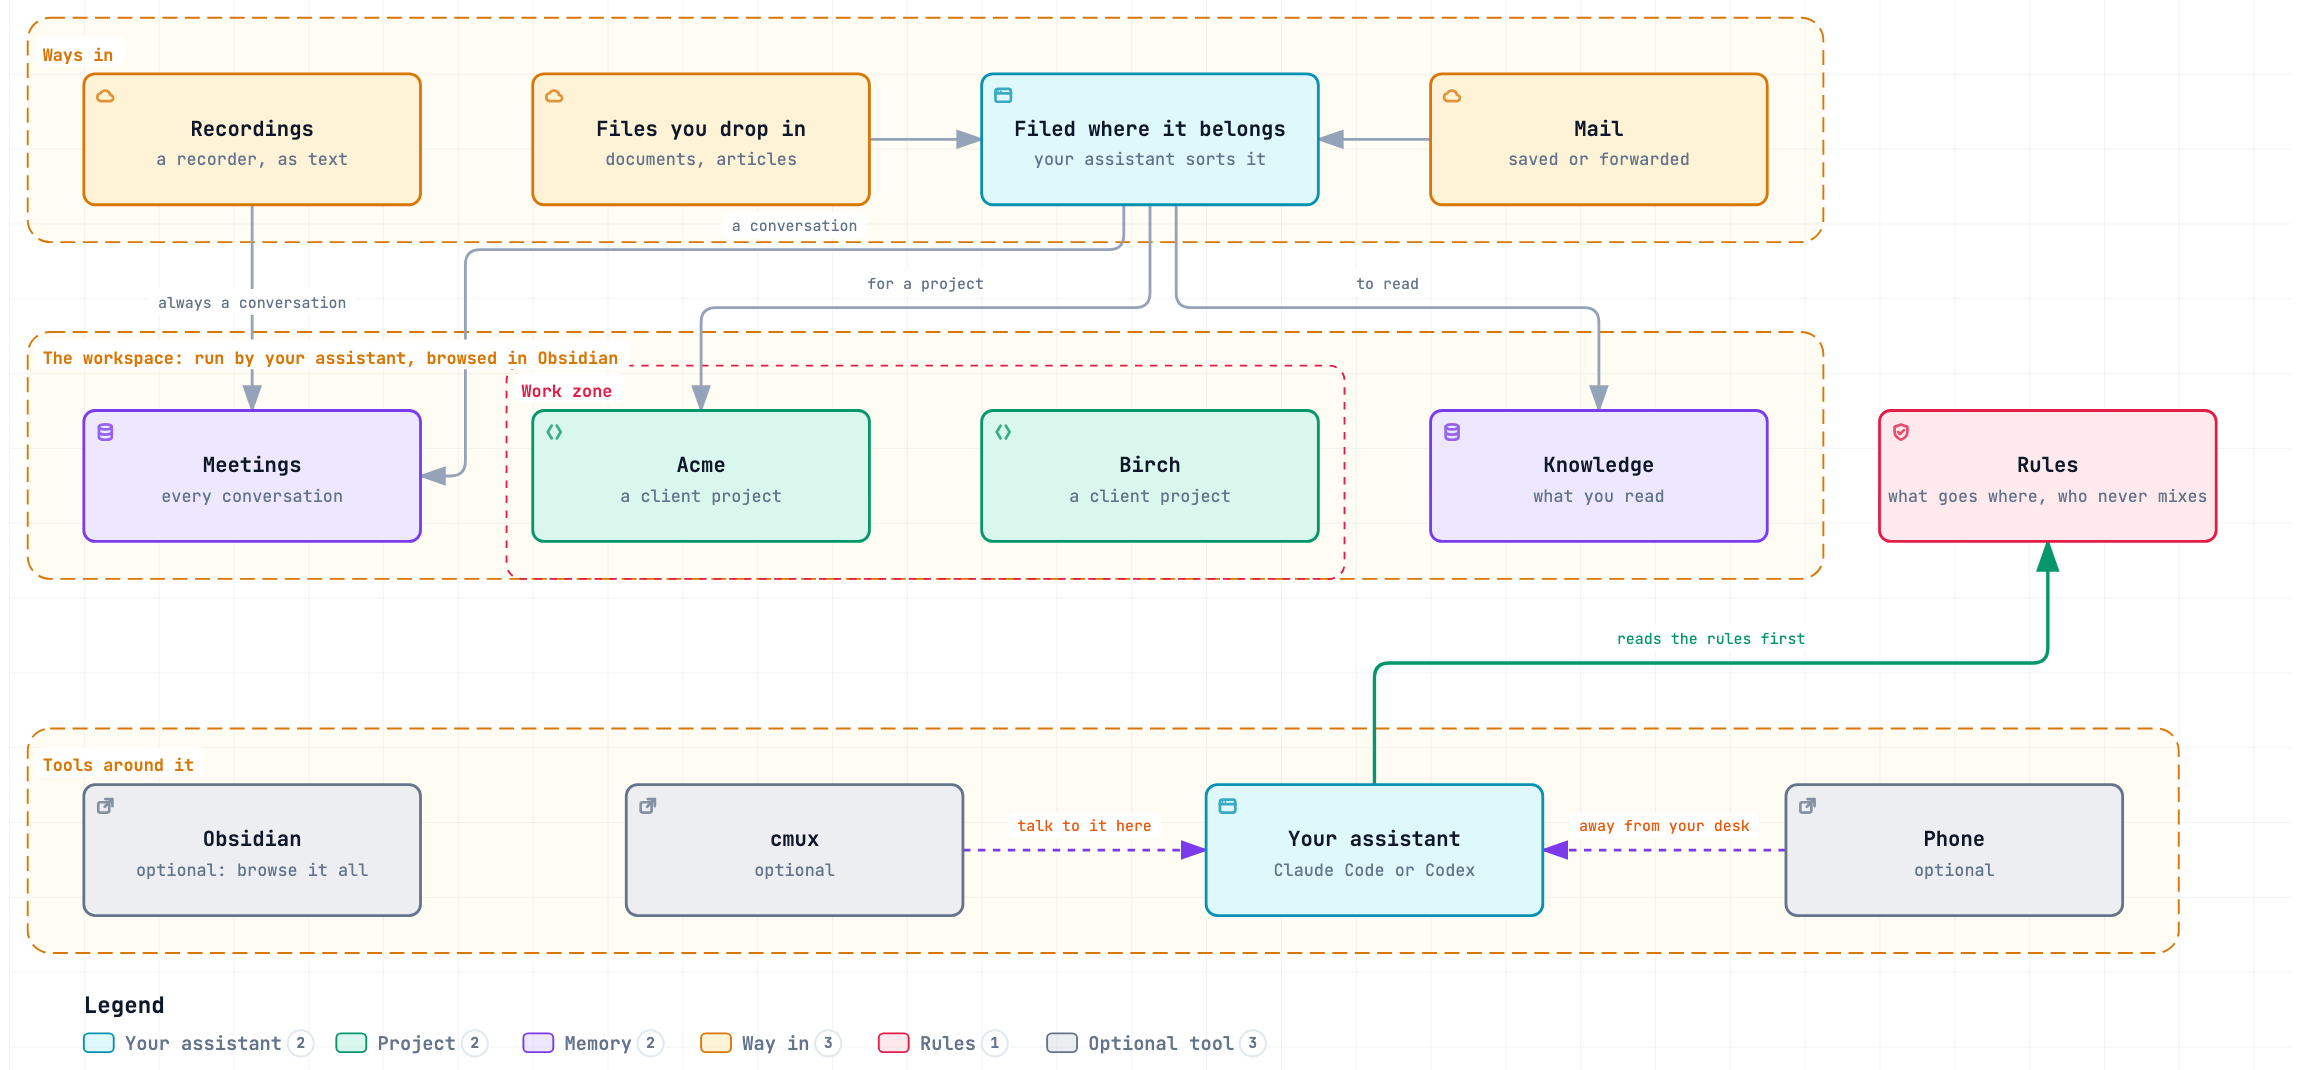
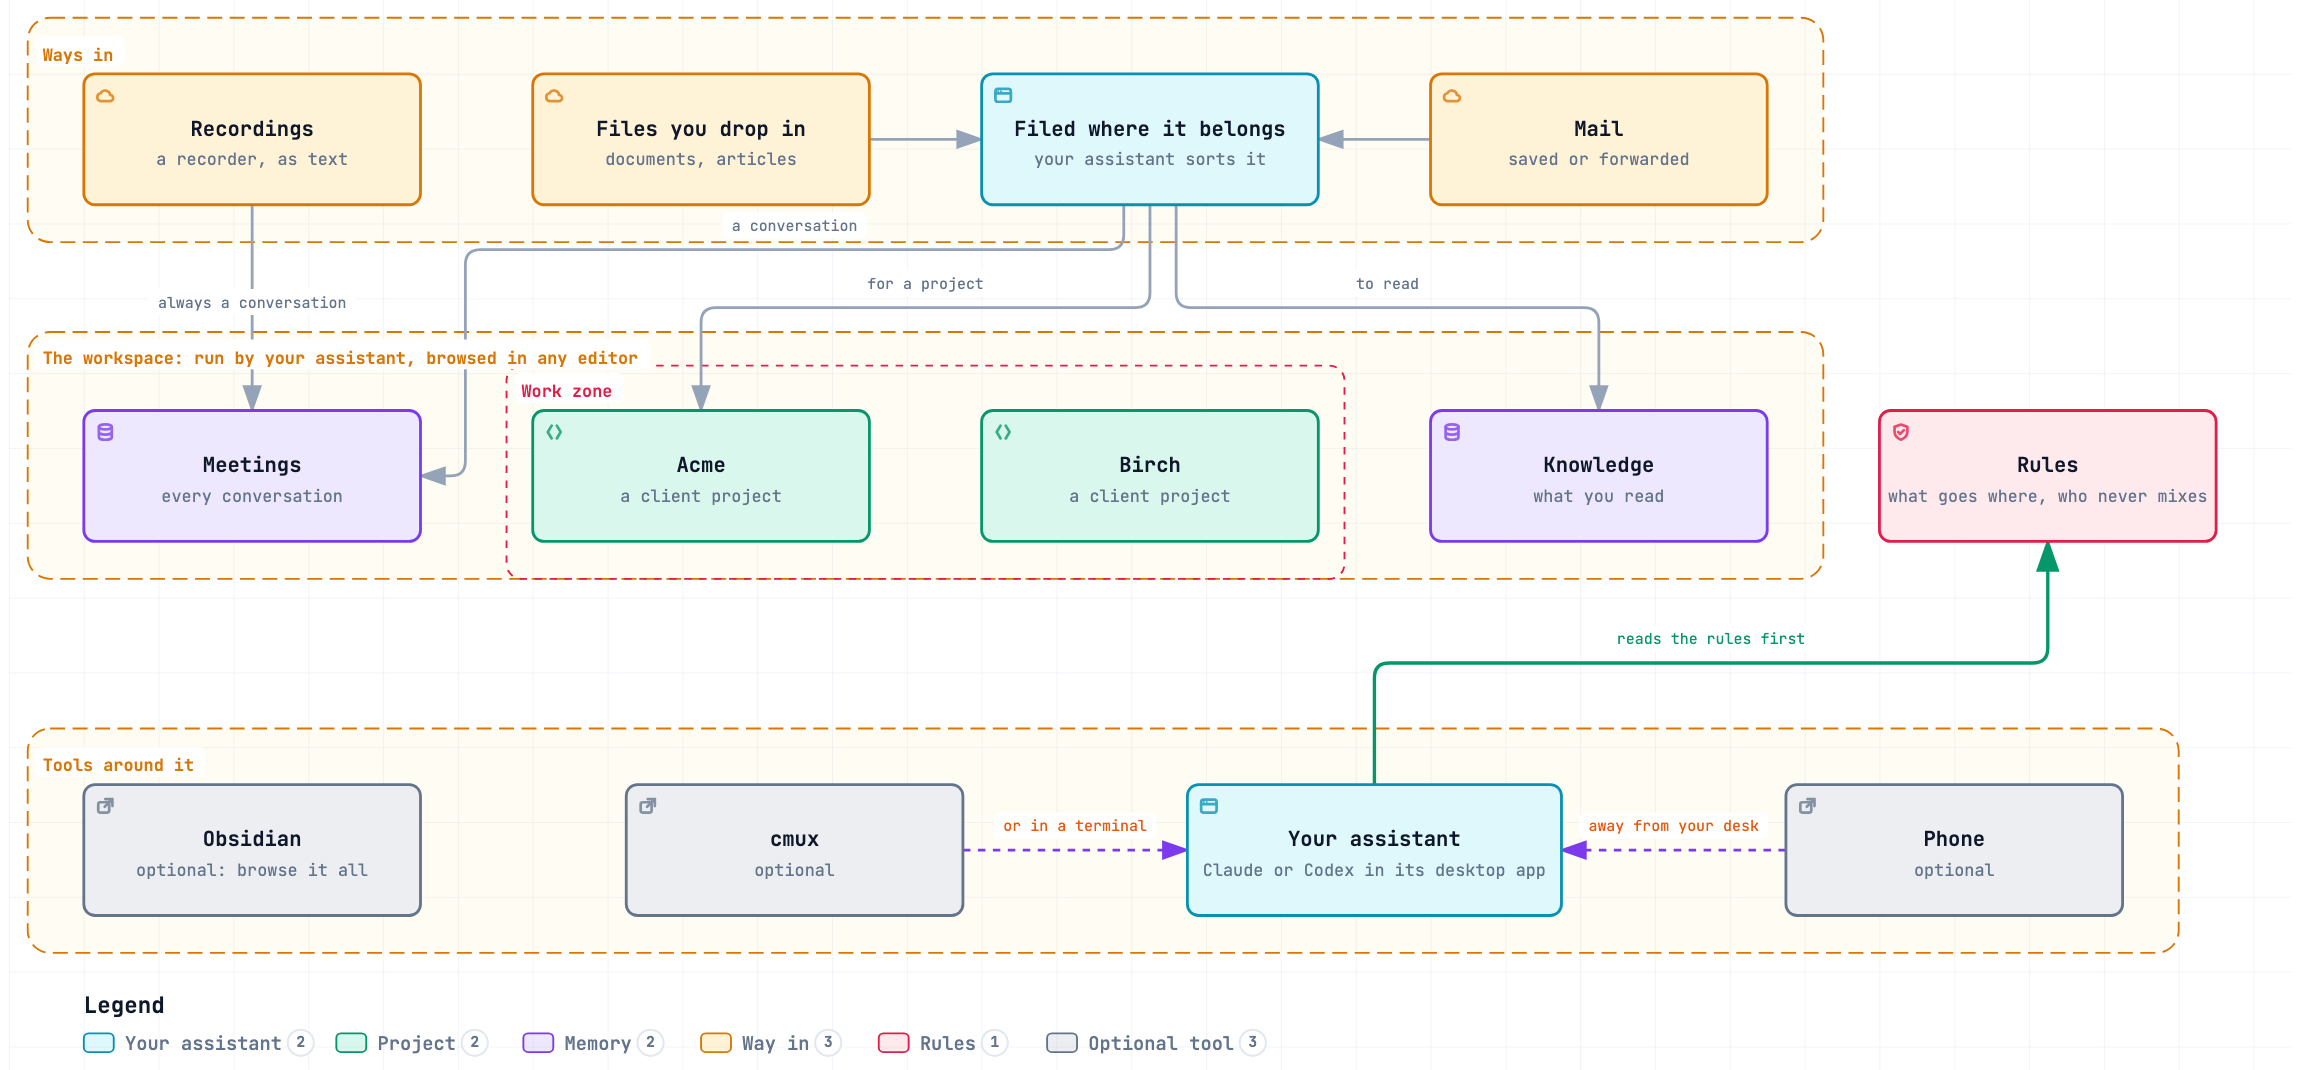
Diagram: declared walls with limited checks, and the desktop route
The walled-use card promised that one client's words never reach another
client's work, a guarantee Garrick does not make: walls are rules for the
assistant, backed by limited checks before a commit. The card now says so,
in those terms.

The diagram also predated the desktop route, which is now the main one.
The assistant box reads Claude or Codex in its desktop app, cmux is the
optional terminal route, and the workspace is browsed in any editor rather
than in Obsidian. A separate node for the app would have crowded the bottom
row, so the assistant box widens around the same centre instead.

Rendered with the same archify version as before, which still reproduces the
old source byte for byte, and exported at the same size, theme and framing.

Changed region(s): [[0.463, 0.7402, 0.7409, 0.8636], [0.247, 0.3084, 0.2778, 0.3393]]

diff --git a/docs/architecture/overview.html b/docs/architecture/overview.html
@@ -5158,7 +5158,7 @@ OTHER DEALINGS IN THE FONT SOFTWARE.
         <!-- Boundaries (behind everything) -->
         <rect data-graph-role="structural-frame" data-composition-frame-kind="region" data-composition-frame-id="0" data-composition-frame-label="Ways in" x="10" y="10" width="960" height="120" rx="12" class="c-region" stroke-width="1"/>
 
-        <rect data-graph-role="structural-frame" data-composition-frame-kind="region" data-composition-frame-id="1" data-composition-frame-label="The workspace: run by your assistant, browsed in Obsidian" x="10" y="178" width="960" height="132" rx="12" class="c-region" stroke-width="1"/>
+        <rect data-graph-role="structural-frame" data-composition-frame-kind="region" data-composition-frame-id="1" data-composition-frame-label="The workspace: run by your assistant, browsed in any editor" x="10" y="178" width="960" height="132" rx="12" class="c-region" stroke-width="1"/>
 
         <rect data-graph-role="structural-frame" data-composition-frame-kind="security-group" data-composition-frame-id="2" data-composition-frame-label="Work zone" x="266" y="196" width="448" height="114" rx="8" class="c-security-group" stroke-width="1"/>
 
@@ -5172,8 +5172,8 @@ OTHER DEALINGS IN THE FONT SOFTWARE.
         <path data-edge-from="sort" data-edge-to="acme" data-edge-label="for a project" data-edge-key="4" data-edge-id="to-work" data-composition-points="610,110;610,165;370,165;370,220" d="M 610 110 L 610 157 Q 610 165 602 165 L 378 165 Q 370 165 370 173 L 370 220" class="a-default" stroke-width="1.5" marker-end="url(#arrowhead)"/>
         <path data-edge-from="sort" data-edge-to="knowledge" data-edge-label="to read" data-edge-key="5" data-edge-id="to-knowledge" data-composition-points="624,110;624,165;850,165;850,220" d="M 624 110 L 624 157 Q 624 165 632 165 L 842 165 Q 850 165 850 173 L 850 220" class="a-default" stroke-width="1.5" marker-end="url(#arrowhead)"/>
         <path data-edge-from="assistant" data-edge-to="rules" data-edge-label="reads the rules first" data-edge-key="6" data-edge-id="reads-rules" data-composition-points="730,420;730,355;1090,355;1090,290" d="M 730 420 L 730 363 Q 730 355 738 355 L 1082 355 Q 1090 355 1090 347 L 1090 290" class="a-emphasis" stroke-width="1.8" marker-end="url(#arrowhead-emphasis)"/>
-        <path data-edge-from="cmux" data-edge-to="assistant" data-edge-label="talk to it here" data-edge-key="7" data-edge-id="talk-here" data-composition-points="510,455;640,455" d="M 510 455 L 640 455" class="a-dashed" stroke-width="1.5" marker-end="url(#arrowhead-dashed)"/>
-        <path data-edge-from="phone" data-edge-to="assistant" data-edge-label="away from your desk" data-edge-key="8" data-edge-id="talk-away" data-composition-points="950,455;820,455" d="M 950 455 L 820 455" class="a-dashed" stroke-width="1.5" marker-end="url(#arrowhead-dashed)"/>
+        <path data-edge-from="cmux" data-edge-to="assistant" data-edge-label="or in a terminal" data-edge-key="7" data-edge-id="talk-here" data-composition-points="510,455;630,455" d="M 510 455 L 630 455" class="a-dashed" stroke-width="1.5" marker-end="url(#arrowhead-dashed)"/>
+        <path data-edge-from="phone" data-edge-to="assistant" data-edge-label="away from your desk" data-edge-key="8" data-edge-id="talk-away" data-composition-points="950,455;830,455" d="M 950 455 L 830 455" class="a-dashed" stroke-width="1.5" marker-end="url(#arrowhead-dashed)"/>
 
         <!-- Components -->
         <g id="node-recordings" data-node-id="recordings" data-node-label="Recordings" tabindex="0" role="button" aria-label="Focus Recordings, a recorder, as text, Ways in" aria-pressed="false" data-node-kind="cloud" data-node-sublabel="a recorder, as text" data-node-context="Ways in">
@@ -5223,8 +5223,8 @@ OTHER DEALINGS IN THE FONT SOFTWARE.
         <text data-detail="context" x="610" y="89" class="t-muted" font-size="9" text-anchor="middle">your assistant sorts it</text>
         </g>
 
-        <g id="node-meetings" data-node-id="meetings" data-node-label="Meetings" tabindex="0" role="button" aria-label="Focus Meetings, every conversation, The workspace: run by your assistant, browsed in Obsidian" aria-pressed="false" data-node-kind="database" data-node-sublabel="every conversation" data-node-context="The workspace: run by your assistant, browsed in Obsidian">
-          <title>Meetings · every conversation · The workspace: run by your assistant, browsed in Obsidian</title>
+        <g id="node-meetings" data-node-id="meetings" data-node-label="Meetings" tabindex="0" role="button" aria-label="Focus Meetings, every conversation, The workspace: run by your assistant, browsed in any editor" aria-pressed="false" data-node-kind="database" data-node-sublabel="every conversation" data-node-context="The workspace: run by your assistant, browsed in any editor">
+          <title>Meetings · every conversation · The workspace: run by your assistant, browsed in any editor</title>
           <rect x="40" y="220" width="180" height="70" rx="6" class="c-mask"/>
           <rect x="40" y="220" width="180" height="70" rx="6" class="c-database" stroke-width="1.5"/>
           <g aria-hidden="true" data-semantic-sigil="database" class="semantic-sigil s-database" transform="translate(46 226) scale(0.6875)">
@@ -5235,8 +5235,8 @@ OTHER DEALINGS IN THE FONT SOFTWARE.
         <text data-detail="context" x="130" y="269" class="t-muted" font-size="9" text-anchor="middle">every conversation</text>
         </g>
 
-        <g id="node-acme" data-node-id="acme" data-node-label="Acme" tabindex="0" role="button" aria-label="Focus Acme, a client project, The workspace: run by your assistant, browsed in Obsidian › Work zone" aria-pressed="false" data-node-kind="backend" data-node-sublabel="a client project" data-node-context="The workspace: run by your assistant, browsed in Obsidian › Work zone">
-          <title>Acme · a client project · The workspace: run by your assistant, browsed in Obsidian › Work zone</title>
+        <g id="node-acme" data-node-id="acme" data-node-label="Acme" tabindex="0" role="button" aria-label="Focus Acme, a client project, The workspace: run by your assistant, browsed in any editor › Work zone" aria-pressed="false" data-node-kind="backend" data-node-sublabel="a client project" data-node-context="The workspace: run by your assistant, browsed in any editor › Work zone">
+          <title>Acme · a client project · The workspace: run by your assistant, browsed in any editor › Work zone</title>
           <rect x="280" y="220" width="180" height="70" rx="6" class="c-mask"/>
           <rect x="280" y="220" width="180" height="70" rx="6" class="c-backend" stroke-width="1.5"/>
           <g aria-hidden="true" data-semantic-sigil="backend" class="semantic-sigil s-backend" transform="translate(286 226) scale(0.6875)">
@@ -5246,8 +5246,8 @@ OTHER DEALINGS IN THE FONT SOFTWARE.
         <text data-detail="context" x="370" y="269" class="t-muted" font-size="9" text-anchor="middle">a client project</text>
         </g>
 
-        <g id="node-birch" data-node-id="birch" data-node-label="Birch" tabindex="0" role="button" aria-label="Focus Birch, a client project, The workspace: run by your assistant, browsed in Obsidian › Work zone" aria-pressed="false" data-node-kind="backend" data-node-sublabel="a client project" data-node-context="The workspace: run by your assistant, browsed in Obsidian › Work zone">
-          <title>Birch · a client project · The workspace: run by your assistant, browsed in Obsidian › Work zone</title>
+        <g id="node-birch" data-node-id="birch" data-node-label="Birch" tabindex="0" role="button" aria-label="Focus Birch, a client project, The workspace: run by your assistant, browsed in any editor › Work zone" aria-pressed="false" data-node-kind="backend" data-node-sublabel="a client project" data-node-context="The workspace: run by your assistant, browsed in any editor › Work zone">
+          <title>Birch · a client project · The workspace: run by your assistant, browsed in any editor › Work zone</title>
           <rect x="520" y="220" width="180" height="70" rx="6" class="c-mask"/>
           <rect x="520" y="220" width="180" height="70" rx="6" class="c-backend" stroke-width="1.5"/>
           <g aria-hidden="true" data-semantic-sigil="backend" class="semantic-sigil s-backend" transform="translate(526 226) scale(0.6875)">
@@ -5257,8 +5257,8 @@ OTHER DEALINGS IN THE FONT SOFTWARE.
         <text data-detail="context" x="610" y="269" class="t-muted" font-size="9" text-anchor="middle">a client project</text>
         </g>
 
-        <g id="node-knowledge" data-node-id="knowledge" data-node-label="Knowledge" tabindex="0" role="button" aria-label="Focus Knowledge, what you read, The workspace: run by your assistant, browsed in Obsidian" aria-pressed="false" data-node-kind="database" data-node-sublabel="what you read" data-node-context="The workspace: run by your assistant, browsed in Obsidian">
-          <title>Knowledge · what you read · The workspace: run by your assistant, browsed in Obsidian</title>
+        <g id="node-knowledge" data-node-id="knowledge" data-node-label="Knowledge" tabindex="0" role="button" aria-label="Focus Knowledge, what you read, The workspace: run by your assistant, browsed in any editor" aria-pressed="false" data-node-kind="database" data-node-sublabel="what you read" data-node-context="The workspace: run by your assistant, browsed in any editor">
+          <title>Knowledge · what you read · The workspace: run by your assistant, browsed in any editor</title>
           <rect x="760" y="220" width="180" height="70" rx="6" class="c-mask"/>
           <rect x="760" y="220" width="180" height="70" rx="6" class="c-database" stroke-width="1.5"/>
           <g aria-hidden="true" data-semantic-sigil="database" class="semantic-sigil s-database" transform="translate(766 226) scale(0.6875)">
@@ -5305,18 +5305,18 @@ OTHER DEALINGS IN THE FONT SOFTWARE.
         <text data-detail="context" x="420" y="469" class="t-muted" font-size="9" text-anchor="middle">optional</text>
         </g>
 
-        <g id="node-assistant" data-node-id="assistant" data-node-label="Your assistant" tabindex="0" role="button" aria-label="Focus Your assistant, Claude Code or Codex, Tools around it" aria-pressed="false" data-node-kind="frontend" data-node-sublabel="Claude Code or Codex" data-node-context="Tools around it">
-          <title>Your assistant · Claude Code or Codex · Tools around it</title>
-          <rect x="640" y="420" width="180" height="70" rx="6" class="c-mask"/>
-          <rect x="640" y="420" width="180" height="70" rx="6" class="c-frontend" stroke-width="1.5"/>
-          <g aria-hidden="true" data-semantic-sigil="frontend" class="semantic-sigil s-frontend" transform="translate(646 426) scale(0.6875)">
+        <g id="node-assistant" data-node-id="assistant" data-node-label="Your assistant" tabindex="0" role="button" aria-label="Focus Your assistant, Claude or Codex in its desktop app, Tools around it" aria-pressed="false" data-node-kind="frontend" data-node-sublabel="Claude or Codex in its desktop app" data-node-context="Tools around it">
+          <title>Your assistant · Claude or Codex in its desktop app · Tools around it</title>
+          <rect x="630" y="420" width="200" height="70" rx="6" class="c-mask"/>
+          <rect x="630" y="420" width="200" height="70" rx="6" class="c-frontend" stroke-width="1.5"/>
+          <g aria-hidden="true" data-semantic-sigil="frontend" class="semantic-sigil s-frontend" transform="translate(636 426) scale(0.6875)">
             <rect x="2" y="3" width="12" height="10" rx="2"/>
             <path d="M2 6.5h12"/>
             <circle cx="4.1" cy="4.8" r=".7" class="sigil-fill"/>
             <circle cx="6.3" cy="4.8" r=".7" class="sigil-fill"/>
           </g>
           <text data-node-label="" data-detail-anchor="" x="730" y="453" class="t-primary" font-size="11" font-weight="600" text-anchor="middle">Your assistant</text>
-        <text data-detail="context" x="730" y="469" class="t-muted" font-size="9" text-anchor="middle">Claude Code or Codex</text>
+        <text data-detail="context" x="730" y="469" class="t-muted" font-size="9" text-anchor="middle">Claude or Codex in its desktop app</text>
         </g>
 
         <g id="node-phone" data-node-id="phone" data-node-label="Phone" tabindex="0" role="button" aria-label="Focus Phone, optional, Tools around it" aria-pressed="false" data-node-kind="external" data-node-sublabel="optional" data-node-context="Tools around it">
@@ -5354,13 +5354,13 @@ OTHER DEALINGS IN THE FONT SOFTWARE.
           <rect x="854.6" y="335" width="110.8" height="14" rx="3" class="c-mask"/>
           <text x="910" y="345" class="t-backend" font-size="8" text-anchor="middle">reads the rules first</text>
         </g>
-        <g data-detail="context" data-edge-from="cmux" data-edge-to="assistant" data-edge-label="talk to it here" data-edge-key="7" data-edge-id="talk-here">
-          <rect x="534" y="435" width="82" height="14" rx="3" class="c-mask"/>
-          <text x="575" y="445" class="t-messagebus" font-size="8" text-anchor="middle">talk to it here</text>
+        <g data-detail="context" data-edge-from="cmux" data-edge-to="assistant" data-edge-label="or in a terminal" data-edge-key="7" data-edge-id="talk-here">
+          <rect x="526.6" y="435" width="86.8" height="14" rx="3" class="c-mask"/>
+          <text x="570" y="445" class="t-messagebus" font-size="8" text-anchor="middle">or in a terminal</text>
         </g>
         <g data-detail="context" data-edge-from="phone" data-edge-to="assistant" data-edge-label="away from your desk" data-edge-key="8" data-edge-id="talk-away">
-          <rect x="834.4" y="435" width="101.2" height="14" rx="3" class="c-mask"/>
-          <text x="885" y="445" class="t-messagebus" font-size="8" text-anchor="middle">away from your desk</text>
+          <rect x="839.4" y="435" width="101.2" height="14" rx="3" class="c-mask"/>
+          <text x="890" y="445" class="t-messagebus" font-size="8" text-anchor="middle">away from your desk</text>
         </g>
 
         <!-- Boundary labels (foreground masks keep routes out of titles) -->
@@ -5369,9 +5369,9 @@ OTHER DEALINGS IN THE FONT SOFTWARE.
           <text data-boundary-label="" x="18" y="33" class="t-cloud" font-size="9" font-weight="600">Ways in</text>
         </g>
 
-        <g data-graph-role="structural-frame-label" data-composition-frame-id="1" data-composition-frame-kind="region" data-composition-frame-label="The workspace: run by your assistant, browsed in Obsidian">
-          <rect data-graph-role="structural-frame-label-mask" x="14" y="182" width="317.8" height="16" rx="3" class="c-mask"/>
-          <text data-boundary-label="" x="18" y="195" class="t-cloud" font-size="9" font-weight="600">The workspace: run by your assistant, browsed in Obsidian</text>
+        <g data-graph-role="structural-frame-label" data-composition-frame-id="1" data-composition-frame-kind="region" data-composition-frame-label="The workspace: run by your assistant, browsed in any editor">
+          <rect data-graph-role="structural-frame-label-mask" x="14" y="182" width="328.59999999999997" height="16" rx="3" class="c-mask"/>
+          <text data-boundary-label="" x="18" y="195" class="t-cloud" font-size="9" font-weight="600">The workspace: run by your assistant, browsed in any editor</text>
         </g>
 
         <g data-graph-role="structural-frame-label" data-composition-frame-id="2" data-composition-frame-kind="security-group" data-composition-frame-label="Work zone">
@@ -5616,7 +5616,7 @@ OTHER DEALINGS IN THE FONT SOFTWARE.
         </div>
         <ul>
           <li>&bull; Everything is remembered in one place</li>
-          <li>&bull; One client&#39;s words never reach another client&#39;s work</li>
+          <li>&bull; Declared walls tell the assistant to keep one party&#39;s meetings out of another&#39;s projects, with limited checks before a commit</li>
         </ul>
       </div>
 
@@ -5626,7 +5626,7 @@ OTHER DEALINGS IN THE FONT SOFTWARE.
           <h3>Tools around it</h3>
         </div>
         <ul>
-          <li>&bull; You talk to your assistant in cmux or on your phone; it follows the rules and does the work across everything</li>
+          <li>&bull; You talk to your assistant in its desktop app, or in cmux or on your phone; it follows the rules and does the work across everything</li>
           <li>&bull; Obsidian lets you browse and read all of it; cmux, Obsidian and a phone are optional</li>
         </ul>
       </div>
